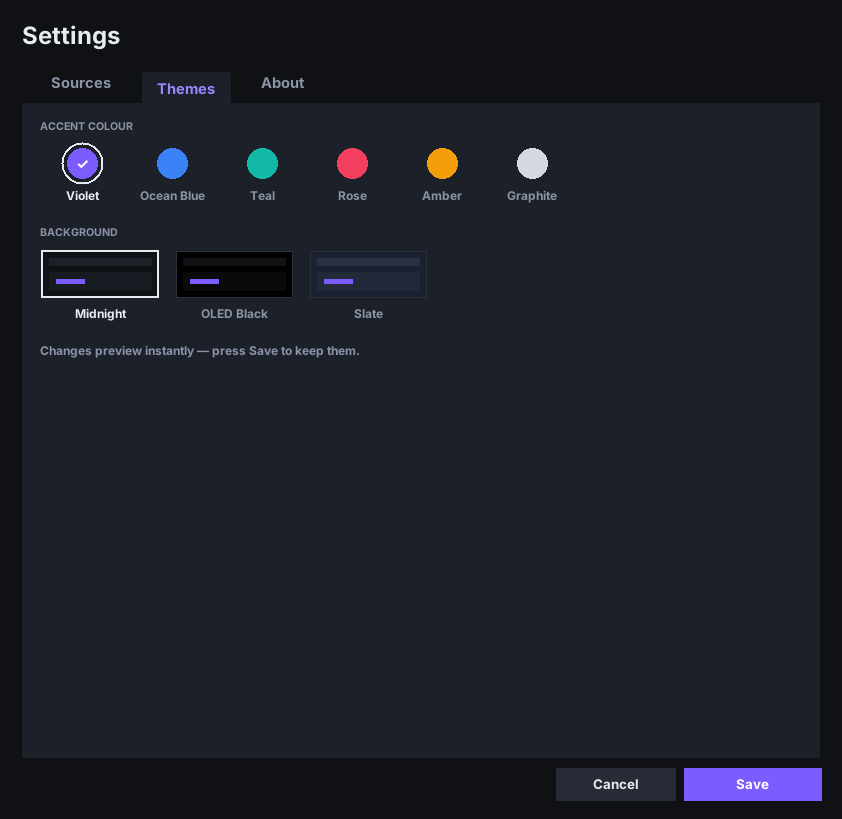
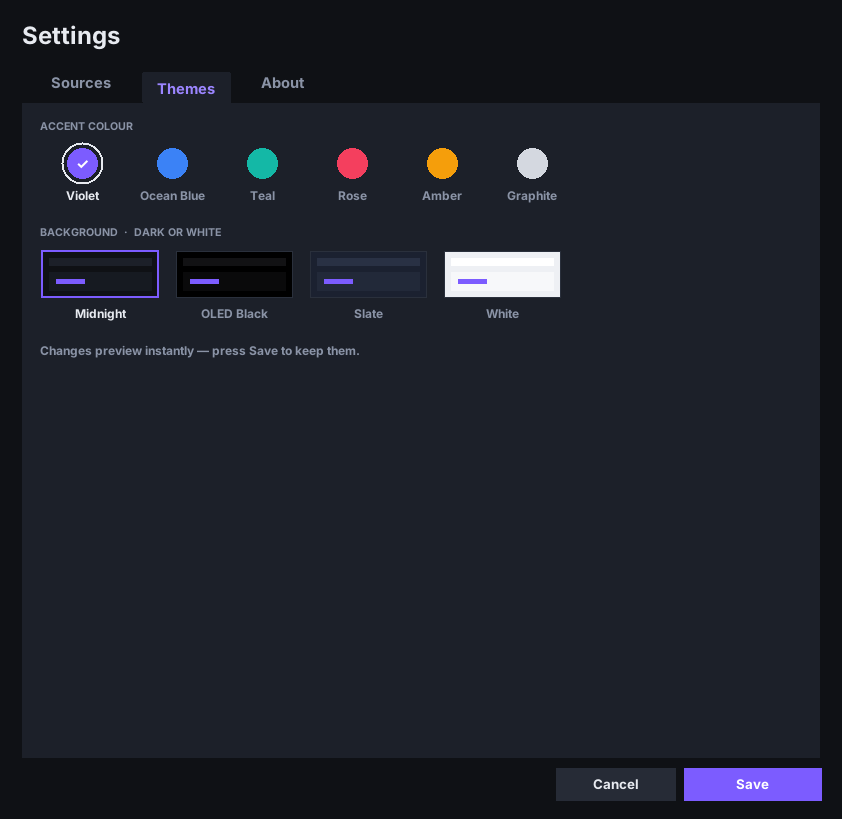
Add White (light) theme alongside the dark backgrounds
- Backgrounds: Midnight, OLED Black, Slate and new White; text, status
  colours, buttons, log colours and the Windows title bar follow the theme
- Accent text uses a deeper shade on white; Graphite turns dark there
- Window background now picks up the saved theme at startup
- New screenshots (dark + white main window, Settings tabs)

Claude-Session: https://claude.ai/code/session_019F12NUXba6B8MC68VGcZ31

Changed region(s): [[0.5249, 0.3053, 0.6793, 0.3968], [0.1544, 0.2747, 0.2779, 0.3053], [0.0309, 0.3053, 0.0618, 0.3358]]

diff --git a/README.md b/README.md
@@ -13,6 +13,9 @@
   <img src="assets/screenshot.png" alt="SubScout main window" width="900">
 </p>
 <p align="center">
+  <img src="assets/screenshot-white.png" alt="SubScout White theme" width="900">
+</p>
+<p align="center">
   <img src="assets/settings-about.png" alt="Settings: About" width="440">
   <img src="assets/settings-themes.png" alt="Settings: Themes" width="440">
 </p>
@@ -31,7 +34,7 @@ Point SubScout at a movie folder or a TV-series folder. It scans every video, wo
 - **Arabic just works.** Old Windows-1256 subtitles are converted to UTF-8, so every player shows them correctly.
 - **Movies or series.** Movies can sit in subfolders (`Movie (2010)/movie.mkv`). Series are read as `Show/Season N/Show.S01E02.mkv`; loose episodes in the show folder work too.
 - **Select all / none / missing**, a live filter, sortable columns, and a per-file subtitle status (`EN ✓ AR ✗`).
-- **Modern dark UI with themes.** Six accent colours and three backgrounds (Midnight, OLED Black, Slate), Segoe UI Bold throughout, a resizable log with *Copy log*, and Windows sounds when a job finishes or something fails.
+- **Modern UI with dark & white themes.** Dark or White: six accent colours and four backgrounds (Midnight, OLED Black, Slate, White), Segoe UI Bold throughout, a resizable log with *Copy log*, and Windows sounds when a job finishes or something fails.
 - **Keeps itself up to date.** It checks GitHub for a new version when it starts; *Update now* downloads the new exe, swaps it in and restarts.
 
 ## Subtitle sources

diff --git a/RELEASE_NOTES.md b/RELEASE_NOTES.md
@@ -10,10 +10,10 @@ First release of **SubScout**: English & Arabic subtitles for your whole movie a
 - **Select all / none / missing,** live filter, sortable columns, per-file `EN ✓ AR ✗` status
 - **Settings window** with three tabs:
   - **Sources:** order and on/off switches, API keys, with *Test* buttons for the keys and the OpenSubtitles login
-  - **Themes:** 6 accent colours × 3 backgrounds, previewed live
+  - **Themes:** dark & white: 6 accent colours × 4 backgrounds (Midnight, OLED Black, Slate, White), previewed live
   - **About:** app info, *Donate*, and *Check for updates*
 - **Auto-update:** checks GitHub at start-up; *Update now* replaces the exe and restarts
-- **Modern dark UI** (Segoe UI Bold), resizable log with *Copy log*, and Windows sounds on finish/error
+- **Modern UI** (Segoe UI Bold), resizable log with *Copy log*, and Windows sounds on finish/error
 
 ### Download & run
 1. Download **SubScout.exe** below. It's a single file and needs no Python or install.
